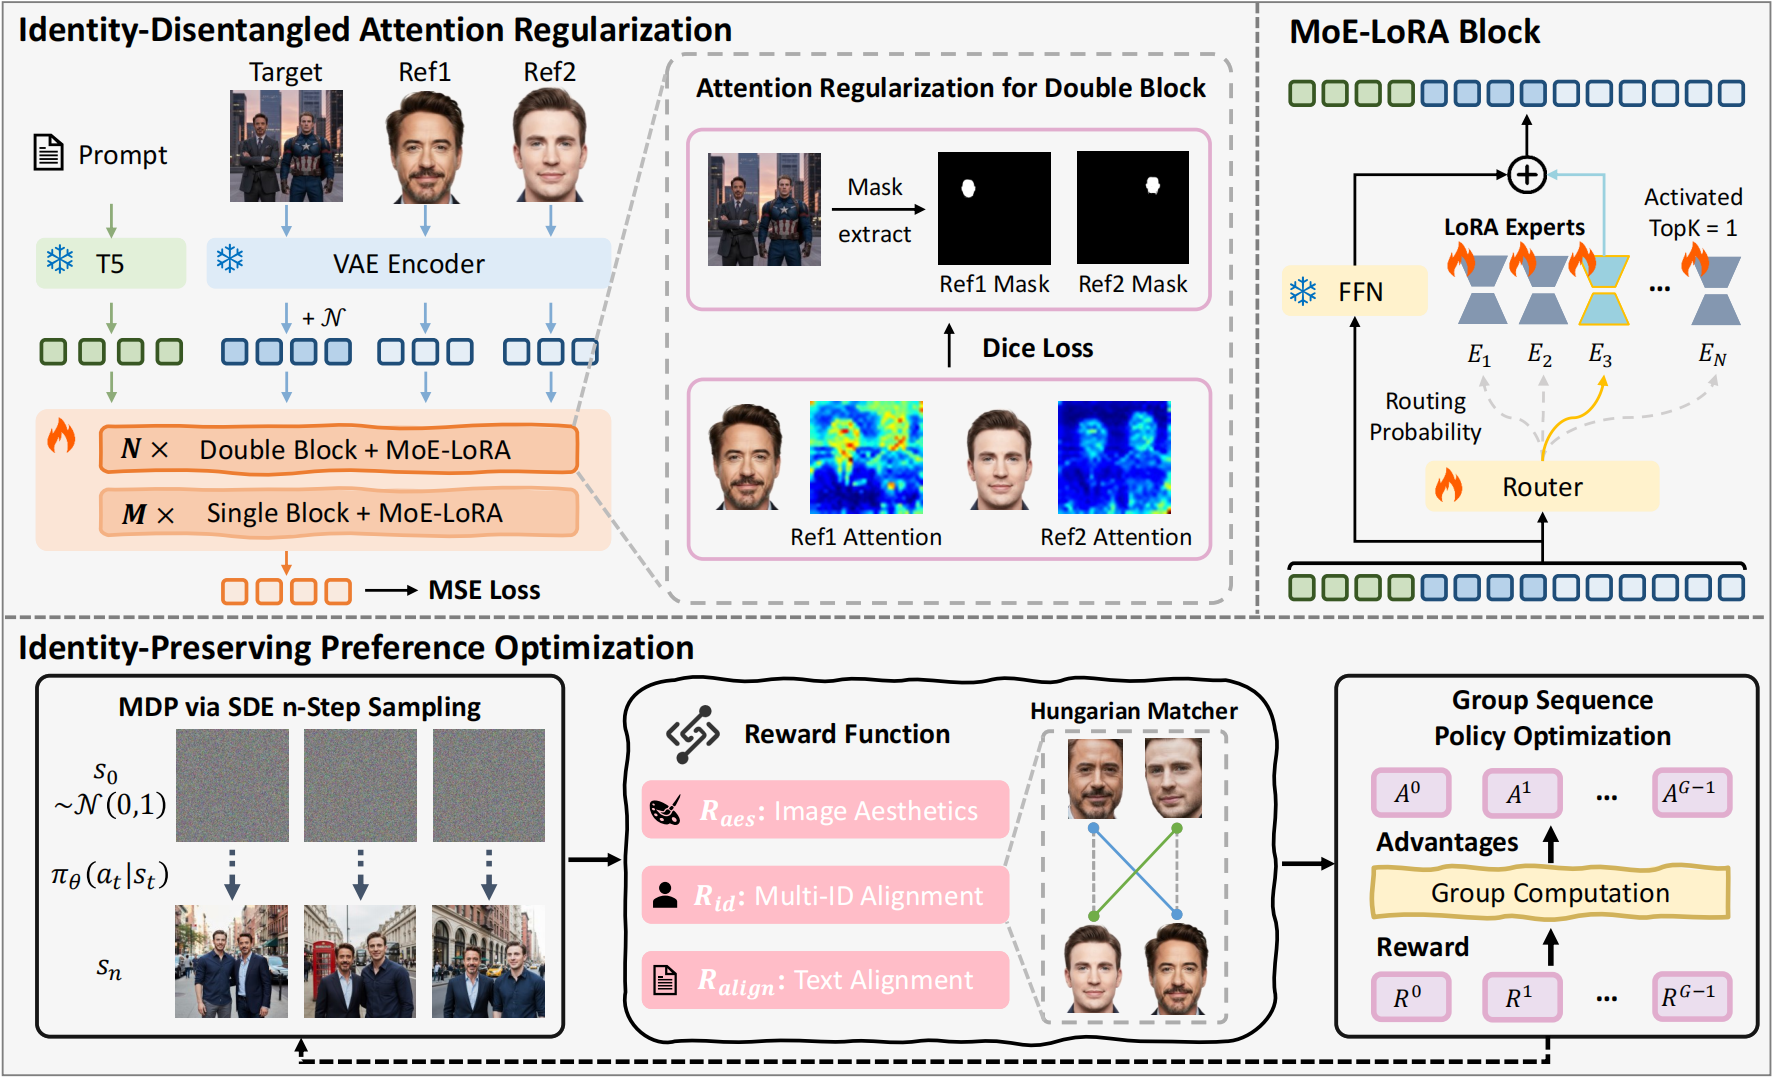
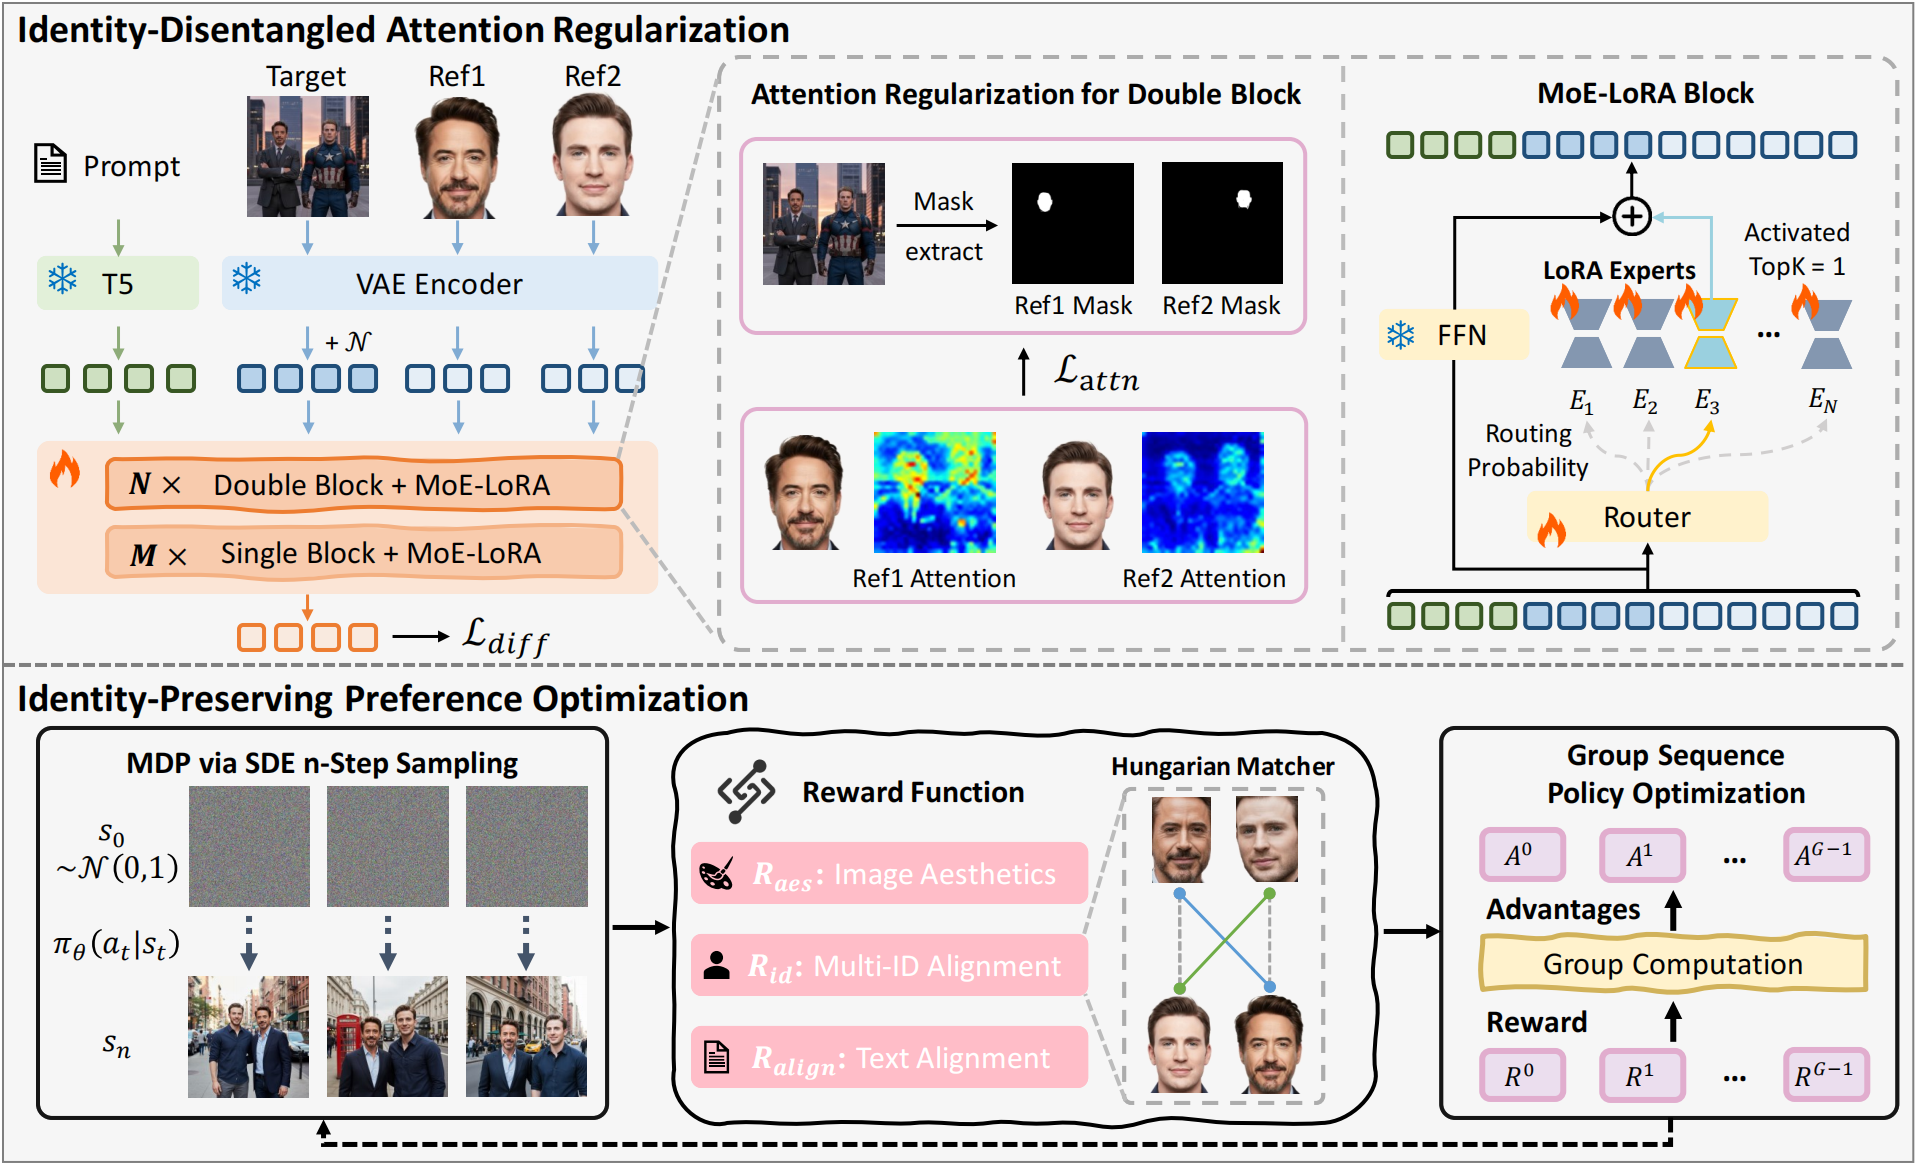
update Multicrafter

diff --git a/MultiCrafter/index.html b/MultiCrafter/index.html
@@ -98,7 +98,7 @@
 <div class="content_two">
   <h2 style="text-align:center; color:#363636;"><b>Abstract</b></h2>
   <br>
-  <p>Multi-subject image generation aims to synthesize user-provided subjects in a single image while preserving subject fidelity, ensuring prompt consistency, and aligning with human aesthetic preferences. However, existing methods, particularly those built on the In-Context-Learning paradigm, are limited by their reliance on simple reconstruction-based objectives, leading to both severe attribute leakage that compromises subject fidelity and failing to align with nuanced human preferences. To address this, we propose MultiCrafter, a framework that ensures high-fidelity, preference-aligned generation. First, we find that the root cause of attribute leakage is a significant entanglement of attention between different subjects during the generation process. Therefore, we introduce explicit positional supervision to explicitly separate attention regions for each subject, effectively mitigating attribute leakage. To enable the model to accurately plan the attention region of different subjects in diverse scenarios, we employ a Mixture-of-Experts architecture to enhance the model's capacity, allowing different experts to focus on different scenarios. Finally, we design a novel online reinforcement learning framework to align the model with human preferences, featuring a scoring mechanism to accurately assess multi-subject fidelity and a more stable training strategy tailored for the MoE architecture. Experiments validate that our framework significantly improves subject fidelity while aligning with human preferences better.</p>
+  <p>Multi-subject image generation aims to synthesize user-provided subjects in a single image while preserving subject fidelity, ensuring prompt consistency, and aligning with human aesthetic preferences. Existing In-Context-Learning based methods are limited by their highly coupled training paradigm. These methods attempt to achieve both high subject fidelity and multi-dimensional human preference alignment within a single training stage, relying on a single, indirect reconstruction loss, which is difficult to simultaneously satisfy both these goals. To address this, we propose MultiCrafter, a framework that decouples this task into two distinct training stages. First, in a pre-training stage, we introduce an explicit positional supervision mechanism that effectively resolves attention bleeding and drastically enhances subject fidelity. Second, in a post-training stage, we propose Identity-Preserving Preference Optimization, a novel online reinforcement learning framework. We feature a scoring mechanism to accurately assess multi-subject fidelity based on the Hungarian matching algorithm, which allows the model to optimize for aesthetics and prompt alignment while ensuring subject fidelity achieved in the first stage. Experiments validate that our decoupling framework significantly improves subject fidelity while aligning with human preferences better.</p>
 </div>
 
 <br>
@@ -107,7 +107,7 @@
   <h2 style="text-align:center; color:#363636;"><b>How does it work?</b></h2><br>
   <img class="summary-img" src="static/multicrafter_files/method/1.png" style="width:100%;">
 <br>
-  <p> Our framework is built on three core innovations: (Top Left) Identity-Disentangled Attention Regularization uses positional supervision to prevent attribute leakage; (Top Right) the MoE-LORA architecture boosts model capacity for diverse scenarios; and (Bottom) the Identity-Preserving Preference Alignment framework employs a novel online reinforcement learning strategy with a Multi-ID Alignment Reward and the stable GSPO algorithm to align the model with human preferences.</p>
+  <p> Overall pipeline of MultiCrafter. Our framework is built on two core innovations: (Top) Identity-Disentangled Attention Regularization uses positional supervision to prevent attribute leakage and the MoE-LORA architecture to boost model capacity for diverse scenarios; and (Bottom) the Identity-Preserving Preference Alignment framework employs a novel online reinforcement learning strategy with a Multi-ID Alignment Reward and the stable GSPO algorithm to align the model with human preferences.</p>
 </div>
 <br>
 
@@ -126,6 +126,10 @@
 
   <br>
   <img class="summary-img" src="static/multicrafter_files/slider/3.png" style="width:100%;">
+  <br>
+
+  <br>
+  <img class="summary-img" src="static/multicrafter_files/slider/7.png" style="width:100%;">
   <br>
 </div>
 
@@ -153,26 +157,6 @@
   <br>
 </div>
 
-<!-- <div class="result-instruction" style="font-size: 18px;">
-  ✨ If you find this project useful for your research, please consider citing our paper:
-</div>  -->
-<div class="teaser_text" style="color: #fefefd; font-size: 18px; text-align: left;">
-  <pre><code>@misc{wu2025multicrafter,
-      title={MultiCrafter: High-Fidelity Multi-Subject Generation via Spatially Disentangled Attention and Identity-Aware Reinforcement Learning}, 
-      author={Tao Wu and Yibo Jiang and Yehao Lu and Zhizhong Wang and Zeyi Huang and Zequn Qin and Xi Li},
-      year={2025},
-      eprint={2509.21953},
-      archivePrefix={arXiv},
-      primaryClass={cs.CV},
-      url={https://arxiv.org/abs/2509.21953}, 
-}</code></pre>
-<br>
-<br>
-<div class="content_two">
-  <p style="text-align: center; color:#363636;">
-    This page was built on the <span class="publication-authors"><a href="https://github.com/bytedance/UMO/tree/gh-pages" target="_blank">UMO</a> Template</Template></span>.
-  </p>
-</div>
 <br>
 
 

diff --git a/index.html b/index.html
@@ -88,7 +88,7 @@ My research interests focus on AIGC, Video Generation, especially customized con
             <img src="assets/imgs/MultiCrafter.png" width="200" class="img-bordered" alt="photo">
         </div>
         <div class="ptitle" style="padding:1px;margin-left:240px;line-height:1.8">
-            MultiCrafter: High-Fidelity Multi-Subject Generation via Spatially Disentangled Attention and Identity-Aware Reinforcement Learning
+            MultiCrafter: High-Fidelity Multi-Subject Generation via Spatially Disentangled Attention and Identity-Aware Preference Alignment
         </div>
         <div class="pauthors" style="padding:1px;margin-left:240px;line-height:1.8">
             <b>Tao Wu*</b>, Yibo Jiang*, Yehao Lu, Zhizhong Wang, Zeyi Huang, Zequn Qin, Xi Li†
